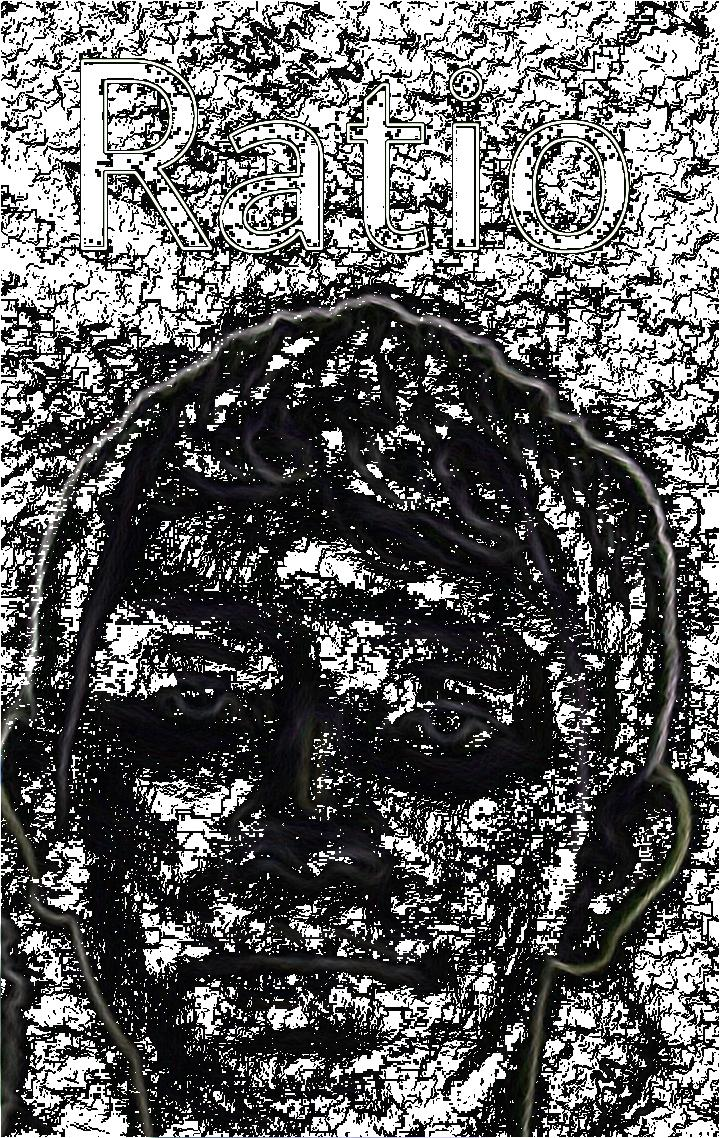
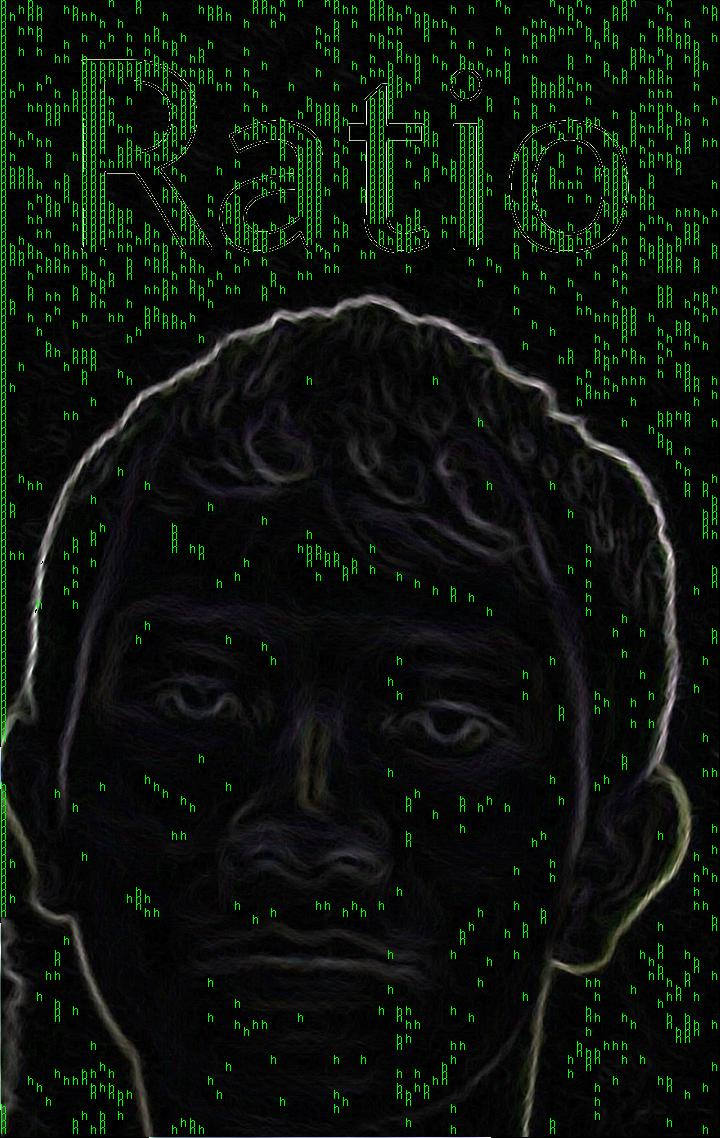
char x y coords

diff --git a/src/filter/Gray.java b/src/filter/Gray.java
@@ -8,6 +8,7 @@ import java.awt.image.BufferedImage;
 import java.io.File;
 import java.io.IOException;
 import java.util.ArrayList;
+import java.util.Hashtable;
 import java.util.Iterator;
 
 import javax.imageio.ImageIO;
@@ -21,7 +22,7 @@ public class Gray {
 		try {
 			File input = new File("C:\\Users\\Admin\\eclipse-workspace\\filter\\src\\filter\\ratioedAayan.jpg");
 			File temp = new File("C:\\Users\\Admin\\eclipse-workspace\\filter\\src\\filter\\temp.jpg");
-			File output = new File("C:\\Users\\Admin\\eclipse-workspace\\filter\\src\\filter\\Output1.jpg");
+			File output = new File("C:\\Users\\Admin\\eclipse-workspace\\filter\\src\\filter\\Output8.jpg");
 			
 			ImageInputStream imgInputStream = ImageIO.createImageInputStream(input);
 			Iterator<ImageReader> iterator = ImageIO.getImageReaders(imgInputStream);
@@ -33,7 +34,9 @@ public class Gray {
 			int width = image.getWidth();
 			int height = image.getHeight();
 			
-			ArrayList<Color> finalRGB = new ArrayList<Color>();
+			//ArrayList<Color> finalRGB = new ArrayList<Color>();
+			Hashtable<Integer, Color>[] finalRGB = new Hashtable[height];
+
 			int count = 0;
 			int spacing = 9;
 
@@ -47,6 +50,8 @@ public class Gray {
 			Font font = new Font("Arial", Font.PLAIN, 12);
 			
 			for (int i = 0; i < height; i++) {
+				finalRGB[i] = new Hashtable<Integer, Color>();
+				
 				for (int j = 0; j < width; j++) {
 					float gxBlue = 0, gxGreen = 0, gxRed = 0;
 					float gyBlue = 0, gyGreen = 0, gyRed = 0;
@@ -89,35 +94,33 @@ public class Gray {
 					int rgbBlue = (int)((finalBlue > 255) ? 255 : finalBlue);
 
 
-					finalRGB.add(new Color(rgbRed, rgbGreen, rgbBlue));
+					finalRGB[i].put(j, new Color(rgbRed, rgbGreen, rgbBlue));
 					count++;
 				}
 			}
+
 			count = 0;
 			for (int i = 0; i < height; i++) {
 				for (int j = 0; j < width; j++) {
-					
-					
-					if (spacing % 50 == 0 && finalRGB.get(count).getRed() == 255 && finalRGB.get(count).getGreen() == 255 && finalRGB.get(count).getBlue() == 255) {
-						Graphics g = image.getGraphics();
-						g.setFont(font);
-						g.setColor(Color.GREEN);
-						g.drawString("h", j, i);
-					} 
-					if (finalRGB.get(count).getRed() == 255 && finalRGB.get(count).getGreen() == 255 && finalRGB.get(count).getBlue() == 255) {
-						image.setRGB(j, i, Color.BLACK.getRGB());
-					}
-					else {
-						image.setRGB(j, i, finalRGB.get(count).getRGB());
-					}
-
-					
-					
-					count++;
-					spacing++;
+					image.setRGB(j, i, Color.BLACK.getRGB());
 				}
 			}
 
+			for (int i = 0; i < height; i++) {
+				for (int j = 0; j < width; j++) {
+					if (j + (j * 8) < width && i + (i * 8) < height) {
+
+						if (finalRGB[i + (i * 8)].get(j + (j * 8)).getRed() == 255 && finalRGB[i + (i * 8)].get(j + (j * 8)).getGreen() == 255 &&
+								finalRGB[i + (i * 8)].get(j + (j * 8)).getBlue() == 255) {
+							Graphics g = image.getGraphics();
+							g.setFont(font);
+							g.setColor(Color.GREEN);
+							g.drawString("h", j + (j * 8), i + (i * 8));
+							image.setRGB(j + (j * 8), i + (i * 8), Color.BLACK.getRGB());
+						} 
+					}
+				}
+			}
 			
 			ImageIO.write(image, imageFormat, output);
 			System.out.println("Completed.");
